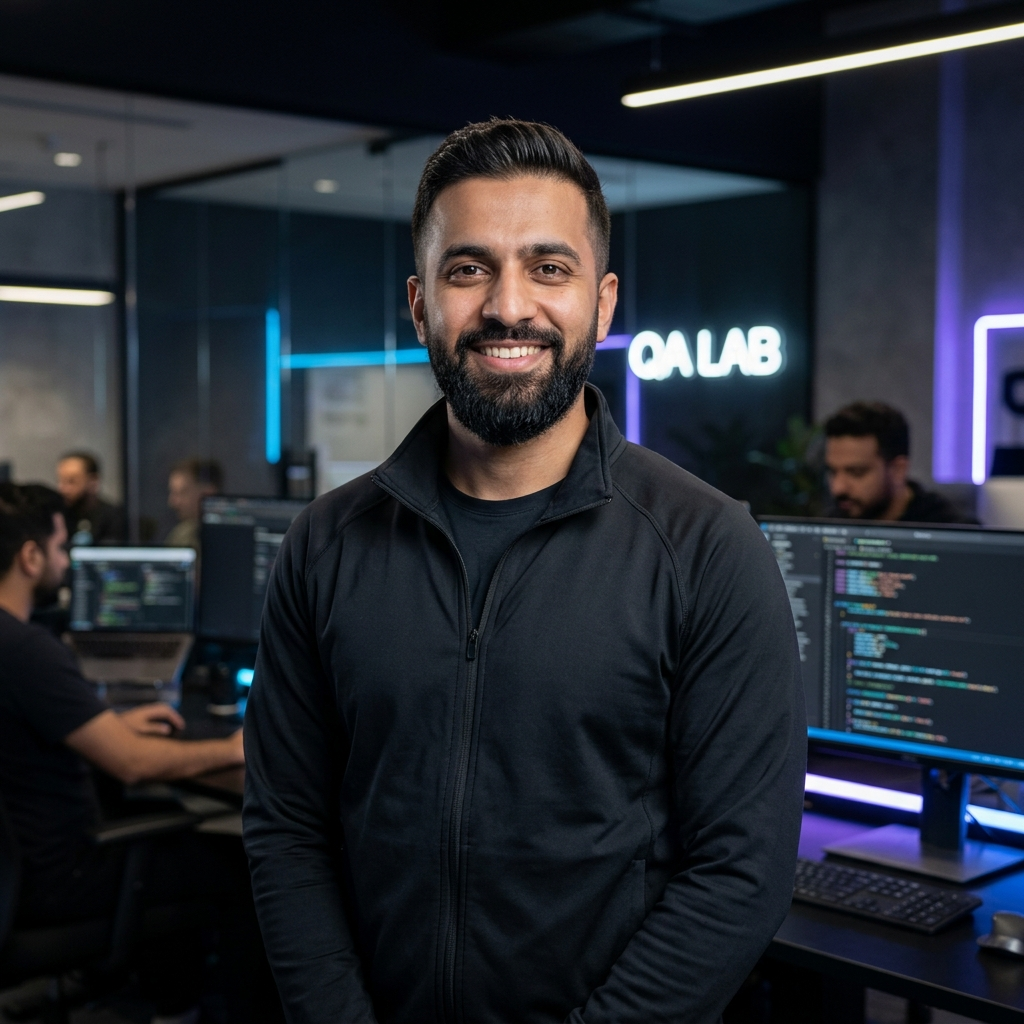
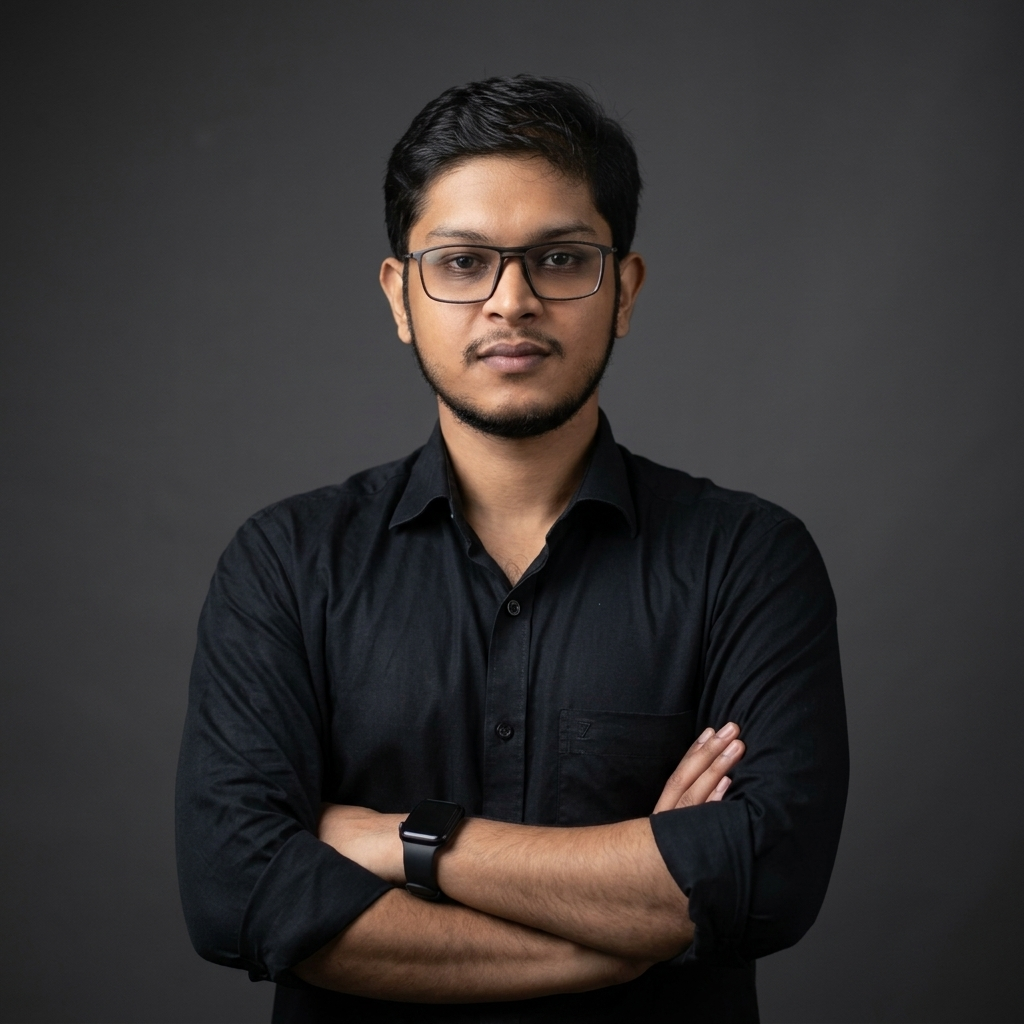
customized

diff --git a/src/components/AboutMeSection.tsx b/src/components/AboutMeSection.tsx
@@ -31,7 +31,7 @@ export default function AboutMeSection() {
             About <span className="text-gradient-cyan">Abdullah Al Omar</span>
           </h2>
           <p className="text-slate-300 text-sm sm:text-base leading-relaxed">
-            Dedicated Senior SQA & Automation Architect with 5+ years of leadership, driving zero-defect software releases through user empathy and resilient test frameworks.
+            Dedicated SQA Engineer driving zero-defect software releases through user empathy and resilient test frameworks.
           </p>
         </div>
 
@@ -50,7 +50,7 @@ export default function AboutMeSection() {
 
                 <div>
                   <h3 className="text-xl font-extrabold text-white">Abdullah Al Omar</h3>
-                  <p className="text-xs font-mono text-cyan-400 font-medium">Senior SQA & Automation Specialist</p>
+                  <p className="text-xs font-mono text-cyan-400 font-medium">SQA Engineer</p>
                   <div className="flex items-center gap-1 text-[11px] text-slate-400 font-mono mt-1">
                     <MapPin className="w-3 h-3 text-rose-400 shrink-0" />
                     <span>Dhaka, Bangladesh &bull; Remote Worldwide</span>
@@ -65,7 +65,7 @@ export default function AboutMeSection() {
                     <Briefcase className="w-3.5 h-3.5 text-cyan-400" />
                     Experience:
                   </span>
-                  <span className="text-slate-100 font-bold">5+ Years SQA Leadership</span>
+                  <span className="text-slate-100 font-bold">5+ Years SQA Experience</span>
                 </div>
 
                 <div className="flex items-center justify-between p-3 rounded-xl bg-[#050810] border border-slate-800/80">
@@ -200,7 +200,7 @@ export default function AboutMeSection() {
                     <div className="p-3 bg-[#050810] rounded-xl border border-slate-800/80 flex items-start gap-2">
                       <CheckCircle2 className="w-4 h-4 text-emerald-400 shrink-0 mt-0.5" />
                       <div>
-                        <div className="text-slate-100 font-bold">Team Leadership</div>
+                        <div className="text-slate-100 font-bold">Quality Engineering</div>
                         <div className="text-[10px] text-slate-400">Mentoring engineers in BDD</div>
                       </div>
                     </div>

diff --git a/src/components/FixedLeftSidebar.tsx b/src/components/FixedLeftSidebar.tsx
@@ -33,9 +33,9 @@ export default function FixedLeftSidebar() {
         <div className="relative w-full aspect-square max-w-[280px] mx-auto mb-6 rounded-2xl overflow-hidden border border-slate-200 dark:border-[#333333] group bg-slate-100 dark:bg-[#161616]">
           <Image
             src="/abdullah-profile.png"
-            alt="Abdullah Al Omar - Senior SQA Engineer"
+            alt="Abdullah Al Omar - SQA Engineer"
             fill
-            className="object-cover object-top transition-transform duration-500 group-hover:scale-105"
+            className="object-cover object-center transition-transform duration-500 group-hover:scale-105"
             priority
           />
           <div className="absolute inset-0 bg-gradient-to-t from-slate-900/40 dark:from-[#111111]/80 via-transparent to-transparent opacity-60" />
@@ -47,7 +47,7 @@ export default function FixedLeftSidebar() {
             Abdullah Al Omar
           </h2>
           <p className="text-sm text-slate-600 dark:text-[#999999] font-medium leading-snug">
-            Senior Software Quality Assurance Engineer & Test Automation Specialist
+            Software Quality Assurance Engineer & Test Automation Specialist
           </p>
           
           <div className="pt-2 flex items-center justify-center gap-1.5 text-xs text-slate-500 dark:text-[#888888]">
@@ -56,16 +56,6 @@ export default function FixedLeftSidebar() {
           </div>
         </div>
 
-        {/* Status Badge */}
-        <div className="mb-6 bg-slate-100 dark:bg-[#161616] border border-slate-200 dark:border-[#2a2a2a] rounded-xl p-3 flex items-center justify-center gap-2.5">
-          <span className="relative flex h-2.5 w-2.5">
-            <span className="animate-ping absolute inline-flex h-full w-full rounded-full bg-sky-500 dark:bg-[#38bdf8] opacity-75"></span>
-            <span className="relative inline-flex rounded-full h-2.5 w-2.5 bg-sky-500 dark:bg-[#38bdf8]"></span>
-          </span>
-          <span className="text-xs font-medium text-slate-700 dark:text-slate-300">
-            Available for Freelance & Roles
-          </span>
-        </div>
 
         {/* Social Links Bar */}
         <div className="flex items-center justify-center gap-3 mb-6">

diff --git a/src/components/ApiTesterWidget.tsx b/src/components/ApiTesterWidget.tsx
@@ -36,7 +36,7 @@ export default function ApiTesterWidget() {
       url: "https://api.qa-studio.io/v1/auth/login",
       description: "Validates user credentials, returns JWT bearer token & sets secure HTTP-only cookies.",
       headers: { "Content-Type": "application/json", "X-Api-Key": "qa-sec-token-2026" },
-      body: JSON.stringify({ email: "sqa.lead@company.com", password: "••••••••••••" }, null, 2),
+      body: JSON.stringify({ email: "sqa.engineer@company.com", password: "••••••••••••" }, null, 2),
       responseStatus: 200,
       statusText: "OK",
       responseTime: "78ms",
@@ -44,7 +44,7 @@ export default function ApiTesterWidget() {
         status: "success",
         data: {
           user_id: "usr_982410a",
-          role: "SQA_LEAD",
+          role: "SQA_ENGINEER",
           token: "eyJhbGciOiJIUzI1NiIsInR5cCI6IkpXVCJ9...",
           expires_in: 86400,
           permissions: ["READ_TESTS", "EXECUTE_PIPELINE", "DESTRUCTIVE_CLEANUP"],

diff --git a/src/components/ResumeSection.tsx b/src/components/ResumeSection.tsx
@@ -7,14 +7,14 @@ export default function ResumeSection() {
   const experiences = [
     {
       period: "2023 - Present",
-      role: "Lead SQA & Automation Engineer",
+      role: "SQA & Automation Engineer",
       company: "Enterprise QA Labs",
       description: "Spearheaded enterprise Playwright & Cypress automation architecture across 12 microservices. Reduced release regression cycle duration from 5 days to 45 minutes with parallel Docker execution.",
       skills: ["Playwright", "TypeScript", "CI/CD", "Docker", "JMeter", "K8s"],
     },
     {
       period: "2021 - 2023",
-      role: "Senior Automation QA Engineer",
+      role: "Automation QA Engineer",
       company: "FinTech Quality Systems",
       description: "Built end-to-end API test suites using Postman and REST Assured for high-volume payment processing systems. Achieved 99.8% test coverage and eliminated critical production leaks.",
       skills: ["Postman", "REST Assured", "Java", "Selenium", "SQL", "Jenkins"],

diff --git a/src/components/AboutSection.tsx b/src/components/AboutSection.tsx
@@ -37,7 +37,7 @@ export default function AboutSection() {
           Every defect caught early saves <span className="text-sky-500 dark:text-[#38bdf8]">10x cost & effort</span> in production.
         </h2>
         <p className="text-base text-slate-600 dark:text-[#999999] leading-relaxed max-w-2xl">
-          I am Abdullah Al Omar, a dedicated Senior Software Quality Assurance Engineer with over 6 years of expertise. My approach goes beyond manual bug hunting — I engineer scalable test automation frameworks, continuous testing pipelines, and comprehensive quality assurance systems that empower software teams to ship fast with 100% confidence.
+          I am Abdullah Al Omar, a dedicated Software Quality Assurance Engineer. My approach goes beyond manual bug hunting — I engineer scalable test automation frameworks, continuous testing pipelines, and comprehensive quality assurance systems that empower software teams to ship fast with 100% confidence.
         </p>
       </div>
 

diff --git a/src/components/HeroIntroSection.tsx b/src/components/HeroIntroSection.tsx
@@ -21,7 +21,7 @@ export default function HeroIntroSection() {
       <div className="space-y-4">
         <h1 className="text-4xl md:text-6xl font-extrabold tracking-tight text-slate-900 dark:text-white leading-[1.15]">
           Say Hi from <span className="text-sky-500 dark:text-[#38bdf8]">Abdullah</span>,<br />
-          <span className="text-slate-900 dark:text-white">SQA Engineer</span> and <span className="text-sky-500 dark:text-[#38bdf8]">Automation Lead</span>.
+          <span className="text-sky-500 dark:text-[#38bdf8]">SQA Engineer</span>.
         </h1>
         <p className="text-base md:text-lg text-slate-600 dark:text-[#999999] leading-relaxed max-w-2xl pt-2">
           I specialize in building bulletproof test automation frameworks, CI/CD quality gates, API regression suites, and high-concurrency performance benchmarks so products deploy faster with zero critical defects.

diff --git a/src/app/page.tsx b/src/app/page.tsx
@@ -9,8 +9,8 @@ import FeaturedProjectsSection from "@/components/FeaturedProjectsSection";
 import ContactFormSection from "@/components/ContactFormSection";
 
 export const metadata = {
-  title: "Abdullah Al Omar | Senior SQA Engineer & Automation Lead",
-  description: "Portfolio of Abdullah Al Omar - Senior Software Quality Assurance Engineer & Test Automation Specialist specializing in Playwright, Selenium, Postman, and JMeter.",
+  title: "Abdullah Al Omar | SQA Engineer",
+  description: "Portfolio of Abdullah Al Omar - Software Quality Assurance Engineer specializing in Playwright, Selenium, Postman, and JMeter.",
 };
 
 export default function Home() {

diff --git a/src/components/CertificationsTimeline.tsx b/src/components/CertificationsTimeline.tsx
@@ -33,7 +33,7 @@ export default function CertificationsTimeline() {
 
   const experiences = [
     {
-      role: "Lead SQA & Test Automation Architect",
+      role: "SQA & Test Automation Architect",
       company: "TechCorp Global",
       period: "2023 - Present",
       location: "San Francisco, CA (Remote)",
@@ -44,7 +44,7 @@ export default function CertificationsTimeline() {
       ],
     },
     {
-      role: "Senior Software QA Engineer",
+      role: "Software QA Engineer",
       company: "DataScale Cloud Systems",
       period: "2021 - 2023",
       location: "Austin, TX",

diff --git a/src/components/UniqueFooter.tsx b/src/components/UniqueFooter.tsx
@@ -31,7 +31,7 @@ export default function UniqueFooter() {
               </div>
               <div>
                 <div className="font-extrabold text-slate-100 text-base">Abdullah Al Omar</div>
-                <div className="text-xs text-cyan-400">Senior SQA & Automation Test Architect</div>
+                <div className="text-xs text-cyan-400">SQA Engineer</div>
               </div>
             </div>
 

diff --git a/src/components/HeroSection.tsx b/src/components/HeroSection.tsx
@@ -17,7 +17,7 @@ export default function HeroSection() {
               src="/images/omar-portrait.png"
               alt="Abdullah - SQA Engineer"
               fill
-              className="object-cover object-top"
+              className="object-cover object-center"
               priority
             />
           </div>

diff --git a/src/components/PricingSection.tsx b/src/components/PricingSection.tsx
@@ -40,7 +40,7 @@ export default function PricingSection() {
       ],
     },
     {
-      title: "Dedicated SQA Lead Consulting",
+      title: "Dedicated SQA Consulting",
       price: "$3,200",
       period: "per month",
       popular: false,
